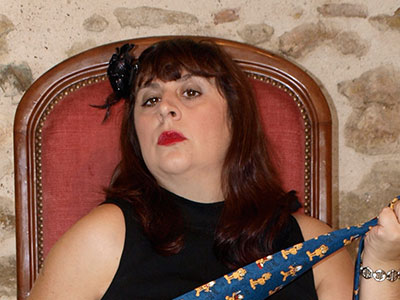
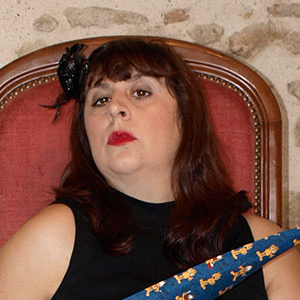
liste membres
On est de mieux en mieux sur la liste des membres.
Encore un peu de mise en forme + lien visu + lien édit pour admin

diff --git a/css/improcite.css b/css/improcite.css
@@ -15,109 +15,54 @@
   width: calc(100% - 220px);
   }
 
-/* Liste membres */
-.cartouche img
-{
-  width: 100%;
-  height: 100%;
-  border-radius: 50%;
-  margin: 15px 0 -5px 15px;
-  border: 5px solid #bdc3c7;
-}
-
-.cartouche-edit
-{
-  text-align: center;
-  margin: 0px -30px 0px 0px;
-}
-
-.cartouche-icones
-{
-  text-align: right;
-  margin: 0 15px 10px 0;
-}
-
-.cartouche
-{
-/*  width: 350px;*/
-  border-radius: 6px;
-  box-shadow: 0 2px 2px rgba(204, 197, 185, 0.5);
-  background-color: #FFFFFF;
-  color: #252422;
-  margin-bottom: 20px;
-  position: relative;
-  z-index: 1;
-}
-
-.cartouche-avatar
-{
-  padding:10px;
-  height:100%;
-}
-
-.cartouche-titre
-{
-  font-size: 1rem;  
-  font-weight: bold;
-  padding: 10px 0;
-}
-
-.cartouche-info
-{
-  font-size: 0.8rem;
-}
-
-.cartouche-info p
-{
-  margin-bottom: 5px;
-  font-size: 0.8rem;
-}
-
-.cartouche hr
-{
-  margin: 10px;
-}
-
-[class*="col"] { 
-  margin:0;
-  padding:10;
-}
-
-.cartouche ul
-{
-margin: 0;
-padding: 0;
-list-style-type: none;
-}
-
-.cartouche ul li { display: inline; }
-
-.right
-{
-  right:0;
-}
-
-/* *** */
-/* le reste */
-
-/*
-.cartouche {
-  width: 200px;
+.card-userlist .image {
+  border-radius: 8px 8px 0 0;
   height: 100px;
-  background: #fff;
-  border: 1px solid #ccc;
-  border-radius: 5px;
-  box-shadow: 0 0 10px #ddd;
+  position: relative;
+  overflow: hidden;
+  width: 100%;
+  transform-style: preserve-3d;
+}
+
+.card-userlist .image {
+  border-radius: 8px 8px 0 0;
+  height: 150px;
+  position: relative;
   overflow: hidden;
 }
+.card-userlist .image img {
+  width: 100%;
+}
 
-.cartouche img {
-  float: left;
+.card-userlist .avatar {
   width: 100px;
   height: 100px;
-  border-right: 1px solid #eee;
+  border-radius: 50%;
+  position: relative;
+  margin-bottom: 15px;
 }
-*/
+.card-userlist .avatar.border-white {
+  border: 5px solid #FFFFFF;
+}
+
+.card-userlist .author {
+  text-align: center;
+  text-transform: none;
+  margin-top: -130px;
+}
+.card-userlist .author .title {
+  color: #403D39;
+}
+.card-userlist .author .title small {
+  color: #ccc5b9;
+}
+
+.adresse
+{
+    line-height: 2.5ex;
+  height: 7.5ex; /* 2.5ex for each visible line */
+  overflow: hidden;
+}
 
 
 

diff --git a/classes/class_comedien_gestion.php b/classes/class_comedien_gestion.php
@@ -73,7 +73,23 @@ class comedien_gestion
   	}
   	else
   		return false;
+   }
+
+  public function getListComediens()
+  {
+    // Exécute une requête de type SELECT avec une clause WHERE, et retourne un objet Comedien.
+    $requete = $this->_db->query("SELECT * FROM impro_comediens WHERE actif=true");
+    $donnees = $requete->fetchAll(PDO::FETCH_ASSOC);
+
+    $comediens = [];
+
+    foreach($donnees as $ligne)
+    {
+      array_push($comediens, new Comedien($ligne));
     }
+
+    return $comediens;
+  }
 
   public function getStatJoueur($comedien, $role)
   {
@@ -86,6 +102,59 @@ class comedien_gestion
     $stat_sql->execute(array($role, $comedien->getId(), $debut_saison->format("Y-m-d H:i:s")));
 
     return $stat_sql->fetchColumn();
+  }
+
+  public function afficheCartouche($comedien, $droits)
+  {
+
+    ?>
+          <div class="row">
+            <div class="col-xs-4">
+              <div class="cartouche-avatar">
+              <?php  echo "<img src='".$comedien->getProfileImage()."'>" ?>
+              </div>
+            </div>
+              <div class="col-xs-8">
+              <?php  echo "<div class='cartouche-titre'>".$comedien->getPrenom()."</div>"; ?>
+              <div class="cartouche-info">
+                  <div class="row">
+                    <div class="col-xs-2"><i class="fa fa-mobile"></i>
+                    </div>
+                    <div class="col-xs-10"><div class="cartouche-text"><?php  echo $comedien->getPortable(); ?></div>
+                    </div>
+                  </div>
+                  <div class="row">
+                    <div class="col-xs-2"><i class="fa fa-envelope-o"></i>
+                    </div>
+                    <div class="col-xs-10"><div class="cartouche-text"><?php  echo $comedien->getEmail(); ?></div>
+                    </div>
+                  </div>              
+                  <div class="row">
+                    <div class="col-xs-2">
+                      <i class="fa fa-home"></i>
+                    </div>
+                    <div class="col-xs-10 adresse"><div class="cartouche-text"><?php  echo $comedien->getAdresse(); ?></div>
+                    </div>
+                  </div>
+            </div>
+            </div>    
+          </div>
+            <hr>
+          <div class="row">
+            <div class="col-xs-4">
+              <?php echo "<div class='cartouche-edit'><a href='membre.php?edit=1&id=".$comedien->getId()."'><i class='fa fa-pencil-square-o'></i></a></div>"; ?>
+            </div>
+              <div class="col-xs-8">
+                <div class="cartouche-icones">
+                  <ul>
+                <li><i class="fa fa-user"></i> <?php echo $this->getStatJoueur($comedien,ROLE_JOUEUR) ?> </li>
+                <li><i class="fa fa-black-tie"></i> <?php echo $this->getStatJoueur($comedien,ROLE_MC) ?> </li>
+                <li><i class="fa fa-sliders"></i> <?php echo $this->getStatJoueur($comedien,ROLE_REGISSEUR) ?> </li>
+              </ul>
+            </div>
+              </div>
+          </div>
+  <?php
   }
 
   public function getList()

diff --git a/membres/membres_list.php b/membres/membres_list.php
@@ -7,46 +7,38 @@ require_once ("tete.php");
 <div class="row">
 <?php
 
-	for ($i;$i<10;$i++)
-{
+	$manager = new comedien_gestion($bdd);
+	$comediens = $manager->getListComediens();
+
+	foreach ($comediens as $comedien)
+	{
+?>
+    <div class="col-lg-3 col-md-4 col-sm-6 col-xs-12">
+
+<?php
+//			$manager->afficheCartouche($comedien,true)
 
 ?>
-	<div class="memberlist">
-	    <div class="col-lg-4 col-md-6 col-sm-6">
-	    	<div class="cartouche">
-	    		<div class="row">
-		    		<div class="col-xs-4">
-			    		<div class="cartouche-avatar">
-			    		<img src="..\img\profil\josselin.jpg">
-			    		</div>
-	    			</div>
-	        		<div class="col-xs-8">
-		        		<div class="cartouche-titre">Josselin</div>
-			    		<div class="cartouche-info">
-			    			<p><i class="fa fa-mobile "></i> 06.35.40.01.48</p>
-				        	<p><i class="fa fa-envelope-o"></i> jossssss@gmail.com</p>
-							<p><i class="fa fa-home "></i> 64 Rue Boileau, 69 006 Lyon</p>
-						</div>
-	    			</div> 		
-	    		</div>
-		    		<hr>
-	    		<div class="row">
-		    		<div class="col-xs-4">
-		    			<div class="cartouche-edit"><a href="membre.php?edit=1&id=2"><i class="fa fa-pencil-square-o"></i></a></div>
-		    		</div>
-	        		<div class="col-xs-8">
-	        			<div class="cartouche-icones">
-	        				<ul>
-								<li><i class="fa fa-user"></i> 7</li>
-								<li><i class="fa fa-black-tie"></i> 2</li>
-								<li><i class="fa fa-sliders"></i> 7</li>
-							</ul>
-						</div>
-	        		</div>
-	    		</div>
-	    	</div>
-		</div>
-	</div>
+        <div class="card card-userlist">
+            <div class="image">
+                <img src="../img/profil_background_widget.jpg" alt="..."/>
+            </div>
+            <div class="content">
+                <div class="author">
+<?php
+                  echo "<img class='avatar border-white' src='../img/profil/".$comedien->getLogin().".jpg' alt='".$comedien->getPrenom()."'/>\n";
+                  echo "<h4 class='title'>".$comedien->getPrenom()."<br />\n";
+                  echo "<a href='mailto:".$comedien->getEmail()."'><small>".$comedien->getEmail()."</small></a><br>\n";
+                  echo "<small>".$comedien->getPortable()."</small></h4></div>\n";
+                  echo "<hr>";
+                  echo "<div class='adresse'><small>".$comedien->getAdresse()."</small>\n";
+                  echo "\n</div>\n";
+
+?>        
+            </div>
+        </div>
+    </div>
+
 <?php } ?>
 
 </div>

diff --git a/classes/class_comedien.php b/classes/class_comedien.php
@@ -24,6 +24,8 @@ class comedien
 	private $_afficherNom;
 	private $_droits;
 	private $_notifEmail;
+	private $_profileImage;
+	private $_profileImageAlt;
 
 	public function __construct($donnees)
 	{
@@ -45,6 +47,8 @@ class comedien
 	      $this->$method($value);
 	    }
 	  }
+
+	  $this->setProfileImage("..\img\profil\\".$this->getLogin().".jpg");
 	}
 
 
@@ -72,6 +76,8 @@ class comedien
 	public function getAfficherNom () { return $this->_affichernom; }
 	public function getDroits () { return $this->_droits; }
 	public function getNotifEmail () { return $this->_notif_email; }
+	public function getProfileImage () { return $this->_profileImage; }
+	public function getProfileImageAlt () { return $this->_profileImageAlt; }
 
 	// setters
 
@@ -97,5 +103,7 @@ class comedien
 	public function setAfficherNom ($affichernom) { $this->_affichernom = $affichernom; }
 	public function setDroits ($droits) { $this->_droits = $droits; }
 	public function setNotifEmail ($notif_email) { $this->_notif_email = $notif_email; }
+	public function setProfileImage ($profileImage) { $this->_profileImage = $profileImage; }
+	public function setProfileImageAlt ($profileImageAlt) { $this->_profileImageAlt = $profileImageAlt; }
 }
 ?>

diff --git a/membres/profil.php b/membres/profil.php
@@ -26,8 +26,6 @@ $comedien = $manager->getComedienById($user_id);
                   echo "</h4>\n</div>\n";
                   echo "<p class='description text-center'>";
                   echo $comedien->getPhraseImpro();
-                  $manager->getStatJoueur($comedien,ROLE_JOUEUR)
-
 ?>        
 
 
